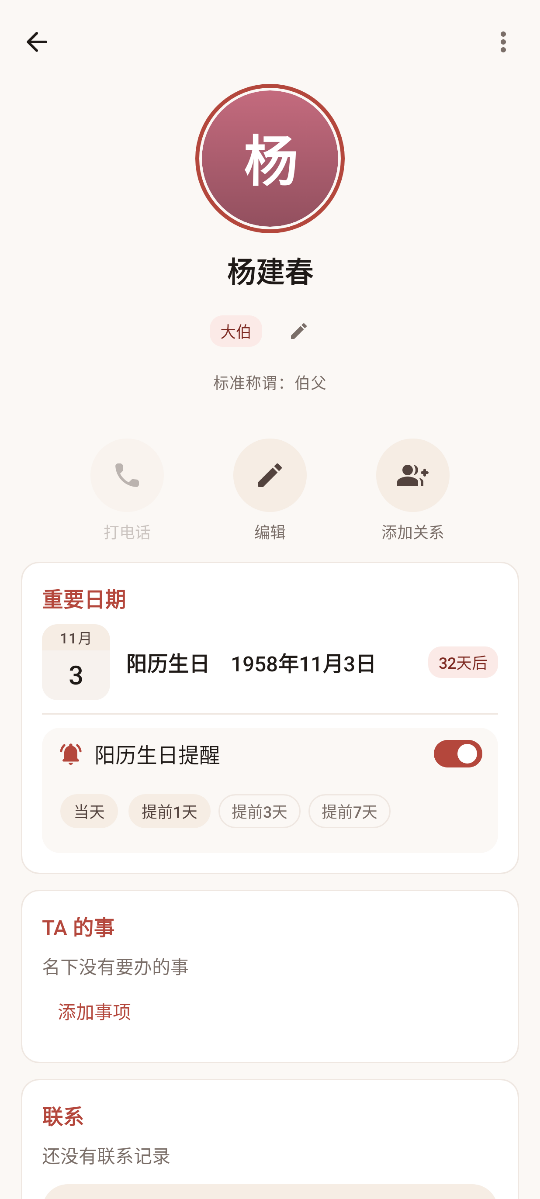
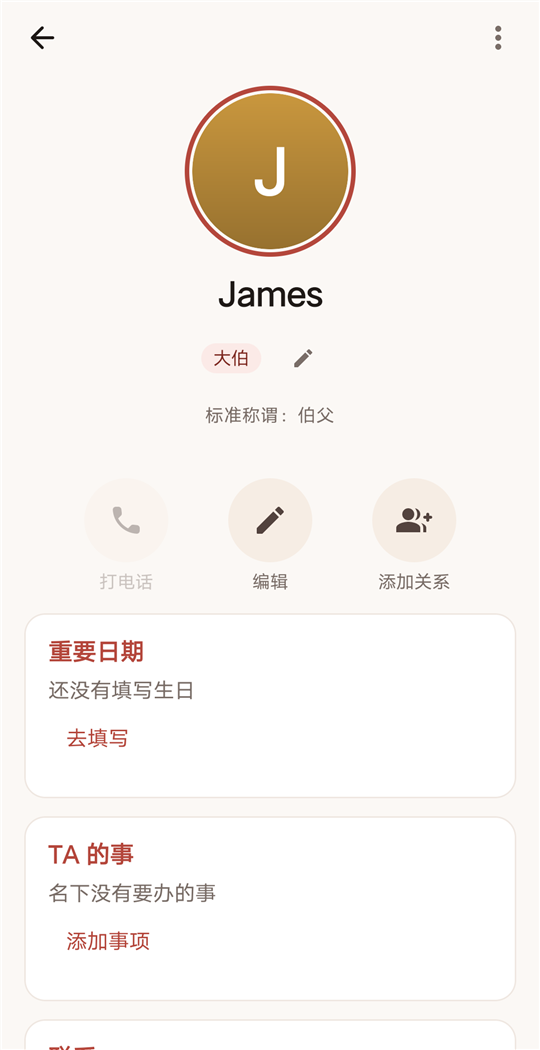
官网截图同步为真机实拍版

diff --git a/apps/web/src/pages/Help.tsx b/apps/web/src/pages/Help.tsx
@@ -1,5 +1,5 @@
 // 帮助页：给家里老人看的图文教程。每一节配一张 App 截图 + 「跟着点」的步骤。
-// 截图与首页同源——ReadmeShotsTest 用合成数据生成在 docs/images/，复制到 assets/shots/；
+// 截图与首页同源——真机实拍（英文名合成数据）存在 docs/images/，复制到 assets/shots/；
 // App 界面有明显变化时同步更新。
 
 import { SITE } from "../site";
